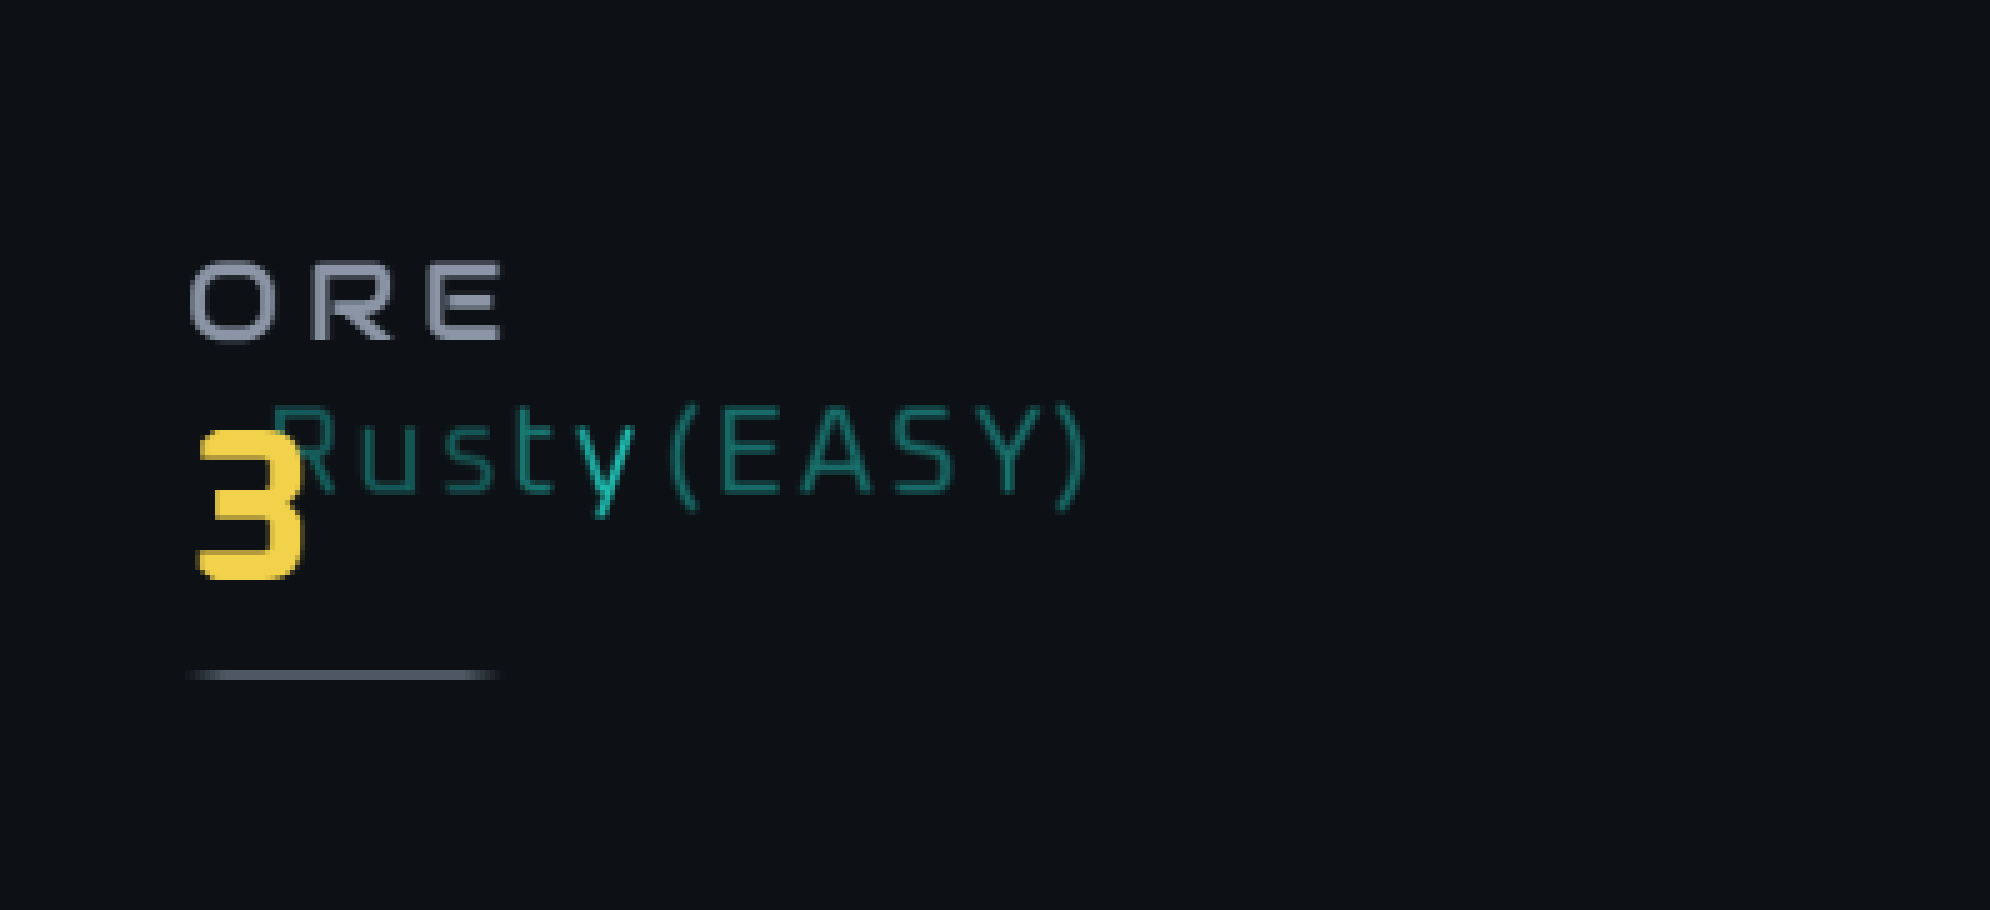
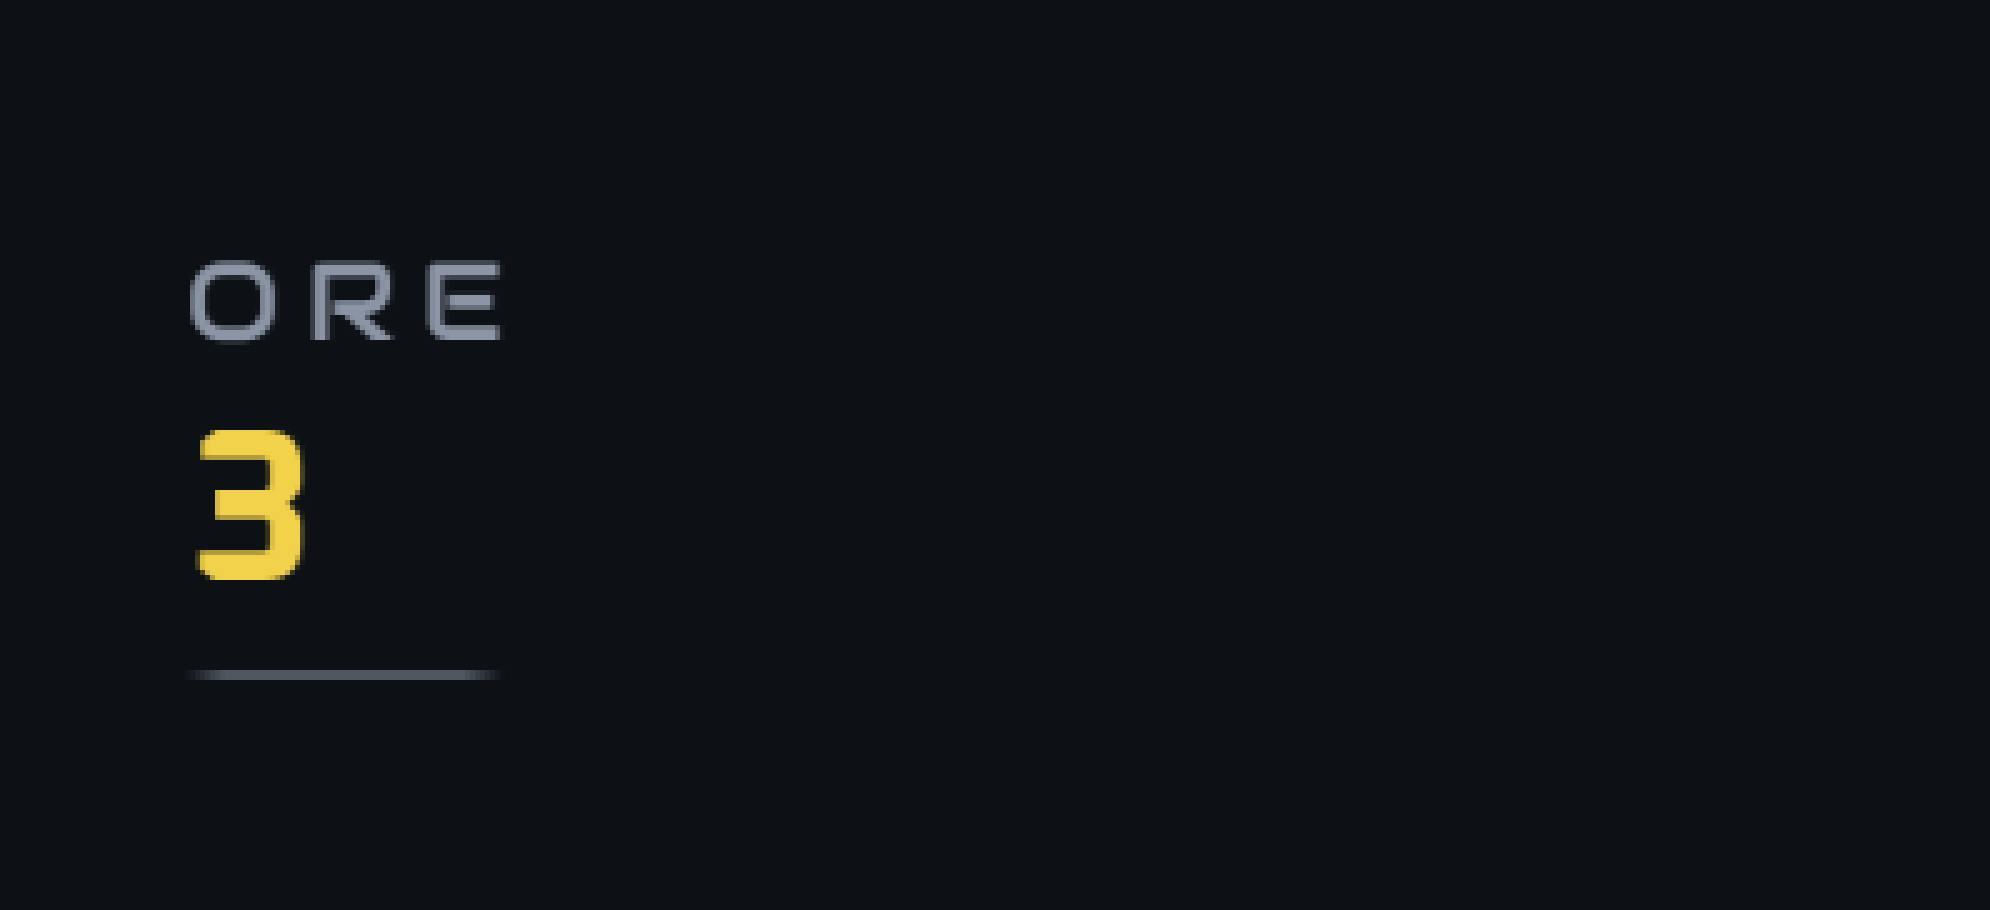
evidence(a0-115): the counter with a rival's nameplate, before and after
Four frames per side on the two profiles a0-111 shot: a rival beside the counter
(before: its plate 21px into the rect, QA measured 20.3; after: it steps aside)
and a rival under it (before: drawn across the numeral; after: withheld, with the
receipt on the ?debug=1 seam). Plus 5x nearest-neighbour crops and the readbacks.

Changed region(s): [[0.1246, 0.4308, 0.5608, 0.5846]]

diff --git a/evidence/a0-115-nothing-lands-in-the-counter/README.md b/evidence/a0-115-nothing-lands-in-the-counter/README.md
@@ -1,0 +1,86 @@
+# a0-115 — the ore counter with a rival's nameplate on it, before and after
+
+a0-111 failed the top-left corner:
+
+> the grey word ORE and the teal nameplate 'Rusty (EASY)' occupy the same pixels
+> — the R of Rusty is drawn across the E of ORE, and both are legible only
+> because they are different colours. […] something other than the counter itself
+> was drawn into the counter's rect on 3 of 14 desktop stops and 1 of 14 phone
+> stops.
+
+This directory reproduces that frame, deterministically, and shoots it on both
+sides of the fix.
+
+## What is in the frames
+
+Everything here comes off the **real `Hud`** — `new Hud(w, h)`, the shipped class,
+on a real Pixi `Application` at dpr 2, with the two ratified faces loaded through
+the game's own `awaitRatifiedFaces` gate. The ore counter, the wave clock, the
+HOME cluster, the VIEW chip and the nameplate layer are all the shipped code;
+nothing about them is re-implemented here.
+
+The one thing this bench decides is **where the rival is standing**. It can,
+because the nameplate feed is already in SCREEN space by the time the HUD sees it
+(`src/ui/nameplates.ts` — the caller projects world → screen), so a rival can be
+parked exactly where a camera position would have put it. That is what makes a
+camera-position defect shootable at all: QA reached theirs with real taps and
+found 4 stops in 28, and a golden frame taken at one position cannot see it.
+
+Both stops are computed from the counter's OWN registered rect
+(`Hud.describeLayout` → `ore-hud`) and the plate's own row geometry, never from a
+hardcoded corner — the same discipline the fix is held to.
+
+**The counter's rect came back 16,16 by 52.9 × 60 logical on the phone and
+52.9 × 75 on desktop.** QA measured 16,16 by 52.9 × 75. The width matches to the
+tenth of a pixel, which is the number the collision is about.
+
+## The two stops, and why two
+
+| stop | the rival | before | after |
+|---|---|---|---|
+| `beside` | just clear of the counter's right edge | its plate is drawn **21 logical px into the counter's rect** — QA measured 20.3 | the plate **steps aside** 23 px and clears the counter by the 2 px keep-out pad. It is still there, and still over its ship |
+| `under` | hull behind the counter | its plate is drawn straight across the banked numeral | the plate **stands down** for the frame. `debugWithheldNameplates()` reports `Rusty` / `readout` |
+
+Two stops because "the label yields" has two outcomes and only showing the first
+would be a half-answer. A plate that can step aside does; a plate whose own ship
+is behind the readout has no position that clears it while still standing over
+the hull it names, and it is withheld — which is the same answer this layer has
+always given a label that would spill off the canvas, and it is recorded on the
+?debug=1 seam rather than silent.
+
+## The files
+
+`shots/` holds the specimens: one PNG per frame at the canvas's own device
+pixels, a 5× nearest-neighbour crop of the counter's rect and the air past it
+(pixel replication — every pixel in a crop is a pixel from the frame above it,
+repeated), and a JSON readback per side with the counter rect, the ship position,
+and the drawn/withheld plate.
+
+## How to re-run it
+
+```
+npx vite --port 4315 --strictPort &
+node evidence/a0-115-nothing-lands-in-the-counter/shoot.mjs after
+```
+
+`before` / `after` is only a filename prefix — **which build is on the bench is
+whatever is in the working tree.** The before-frames in this directory were taken
+with the two changed view files reverted to `origin/main` and nothing else
+touched:
+
+```
+git checkout origin/main -- src/ui/hud.ts src/ui/nameplates-view.ts
+# restart vite: on this filesystem the dev server does not always invalidate a
+# module changed from outside it, and a stale module is a frame that lies
+node evidence/a0-115-nothing-lands-in-the-counter/shoot.mjs before
+git checkout <this branch> -- src/ui/hud.ts src/ui/nameplates-view.ts
+```
+
+## A trap this run hit, written down so the next one does not
+
+**A crop taken in the page is a black rectangle.** The first cut cropped with
+`drawImage(canvas, …)` inside the browser. The WebGL drawing buffer is gone by
+the time script runs after a render, so every crop came out solid black — which
+looks exactly like a finding about a HUD that failed to draw. The crops are cut
+out of the saved PNG in node instead, with `pngjs`, which is also what makes them
+honest nearest-neighbour enlargements rather than a browser's resample.
